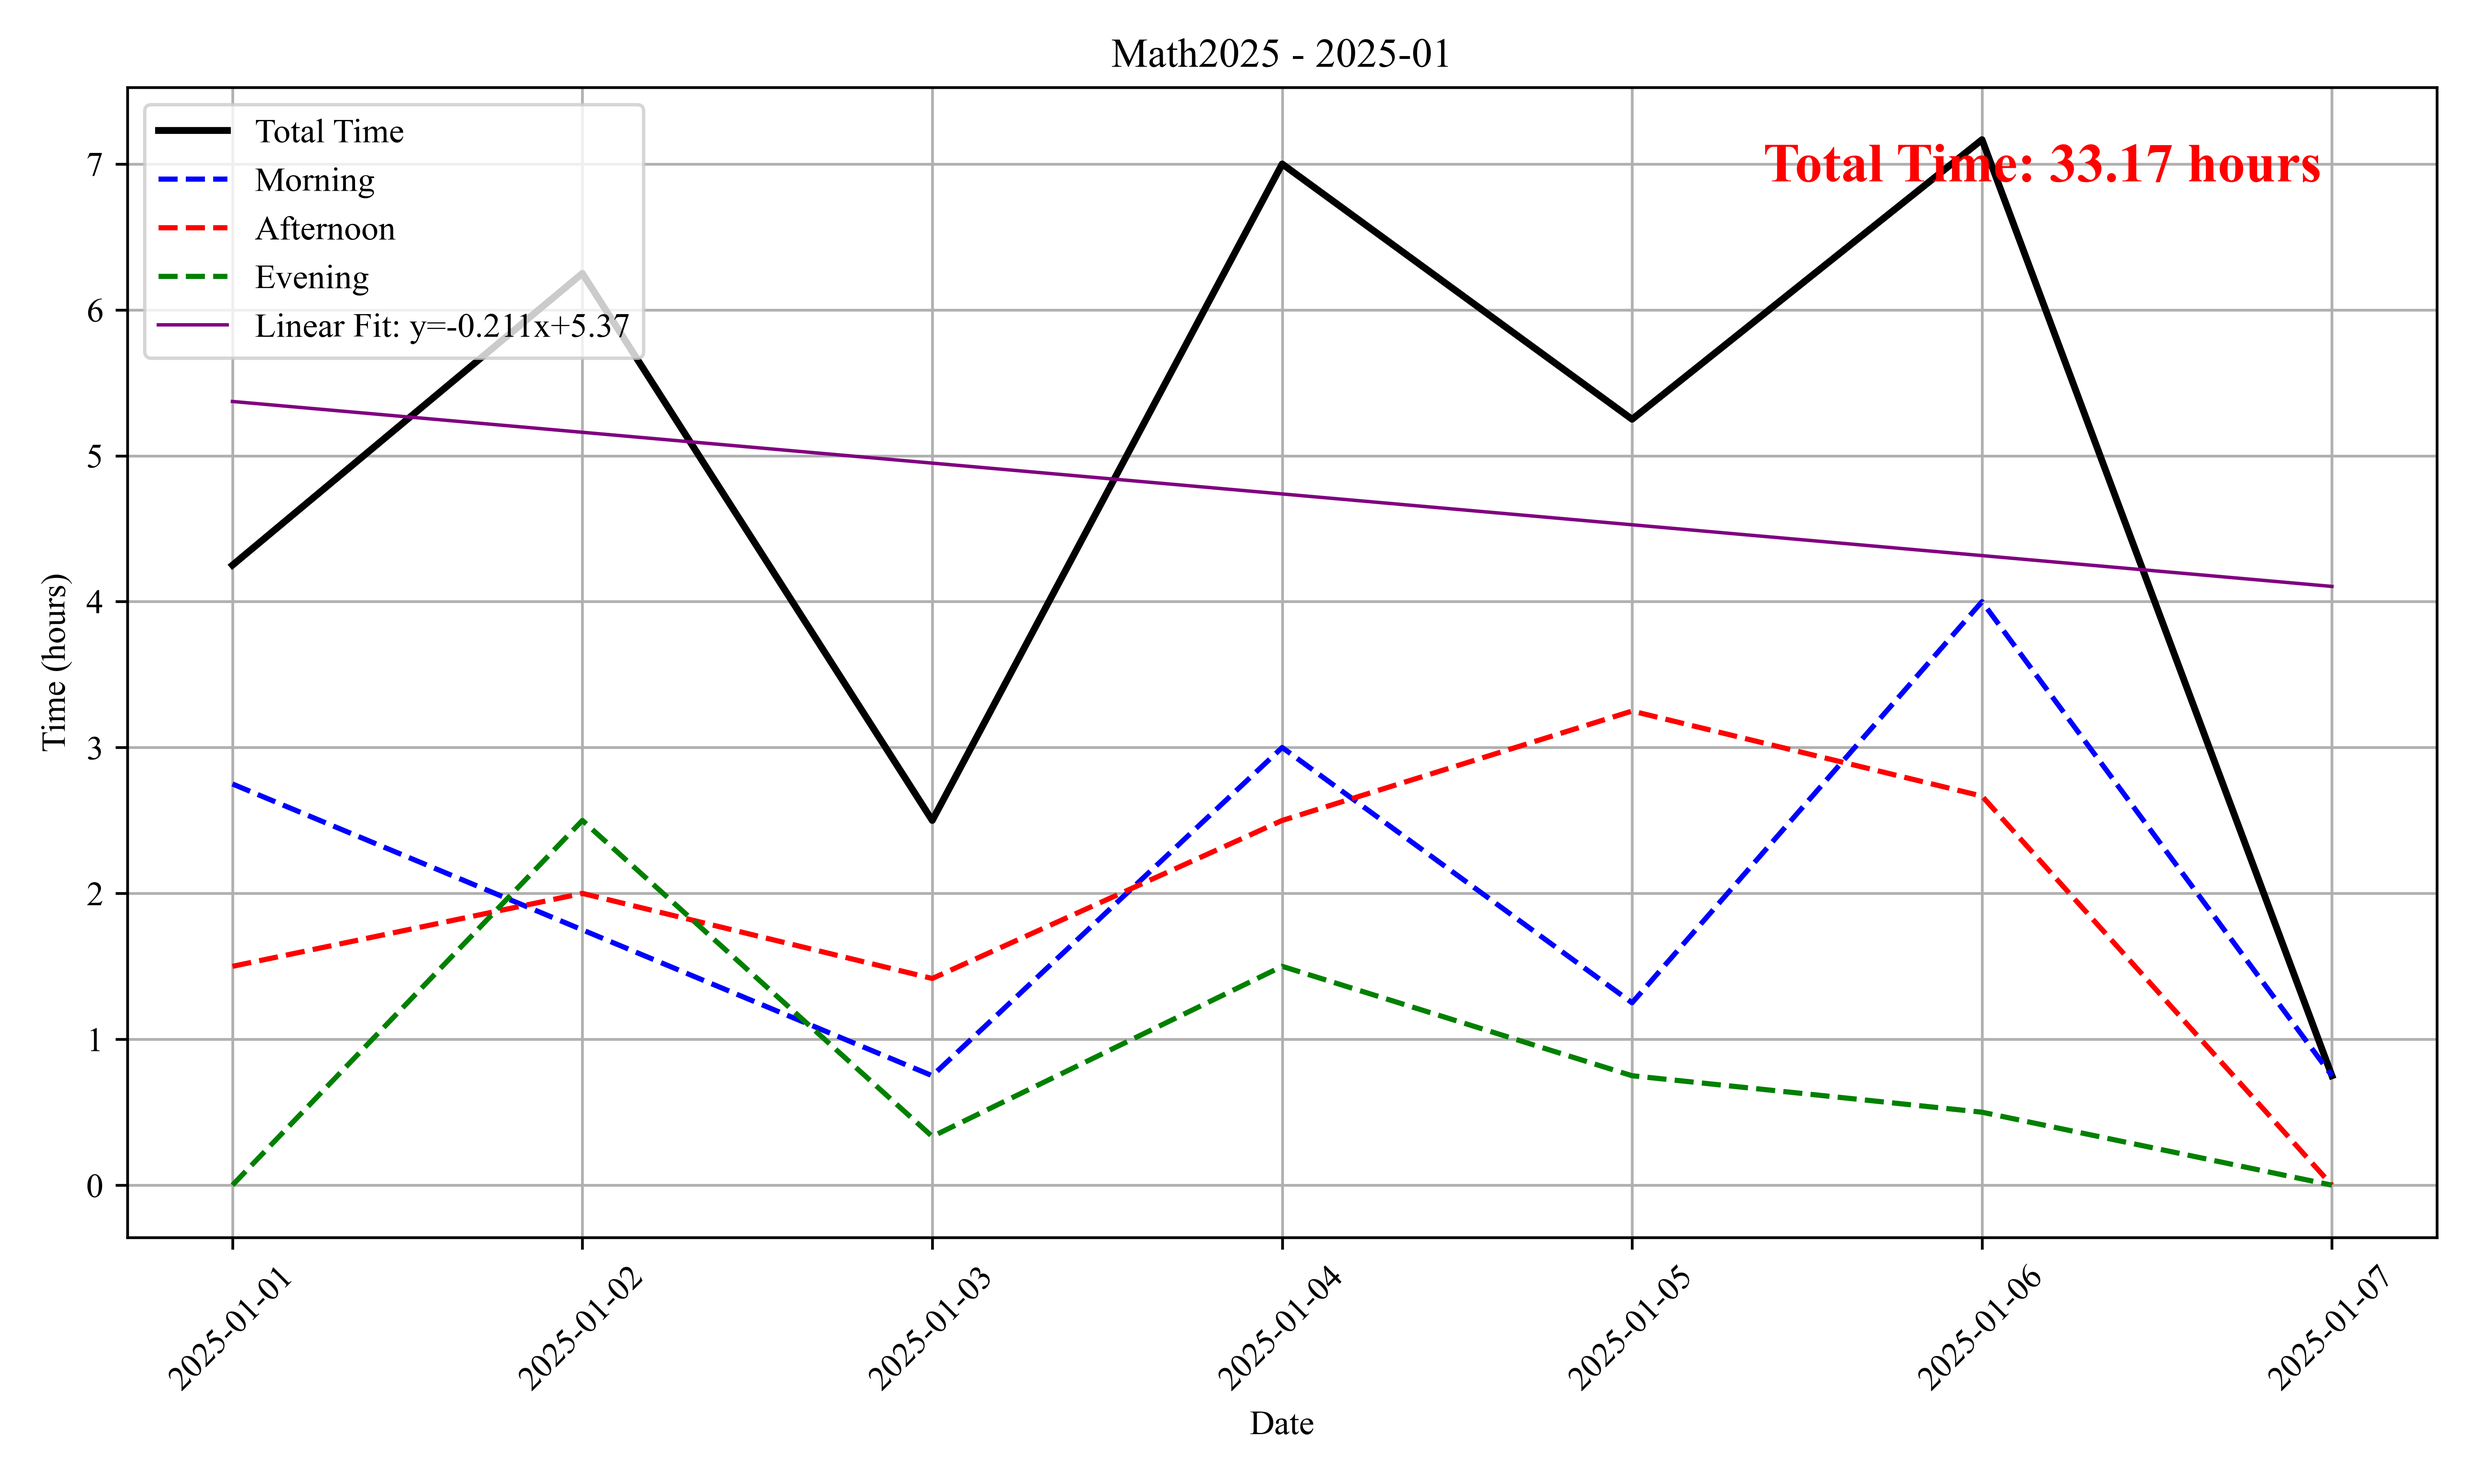
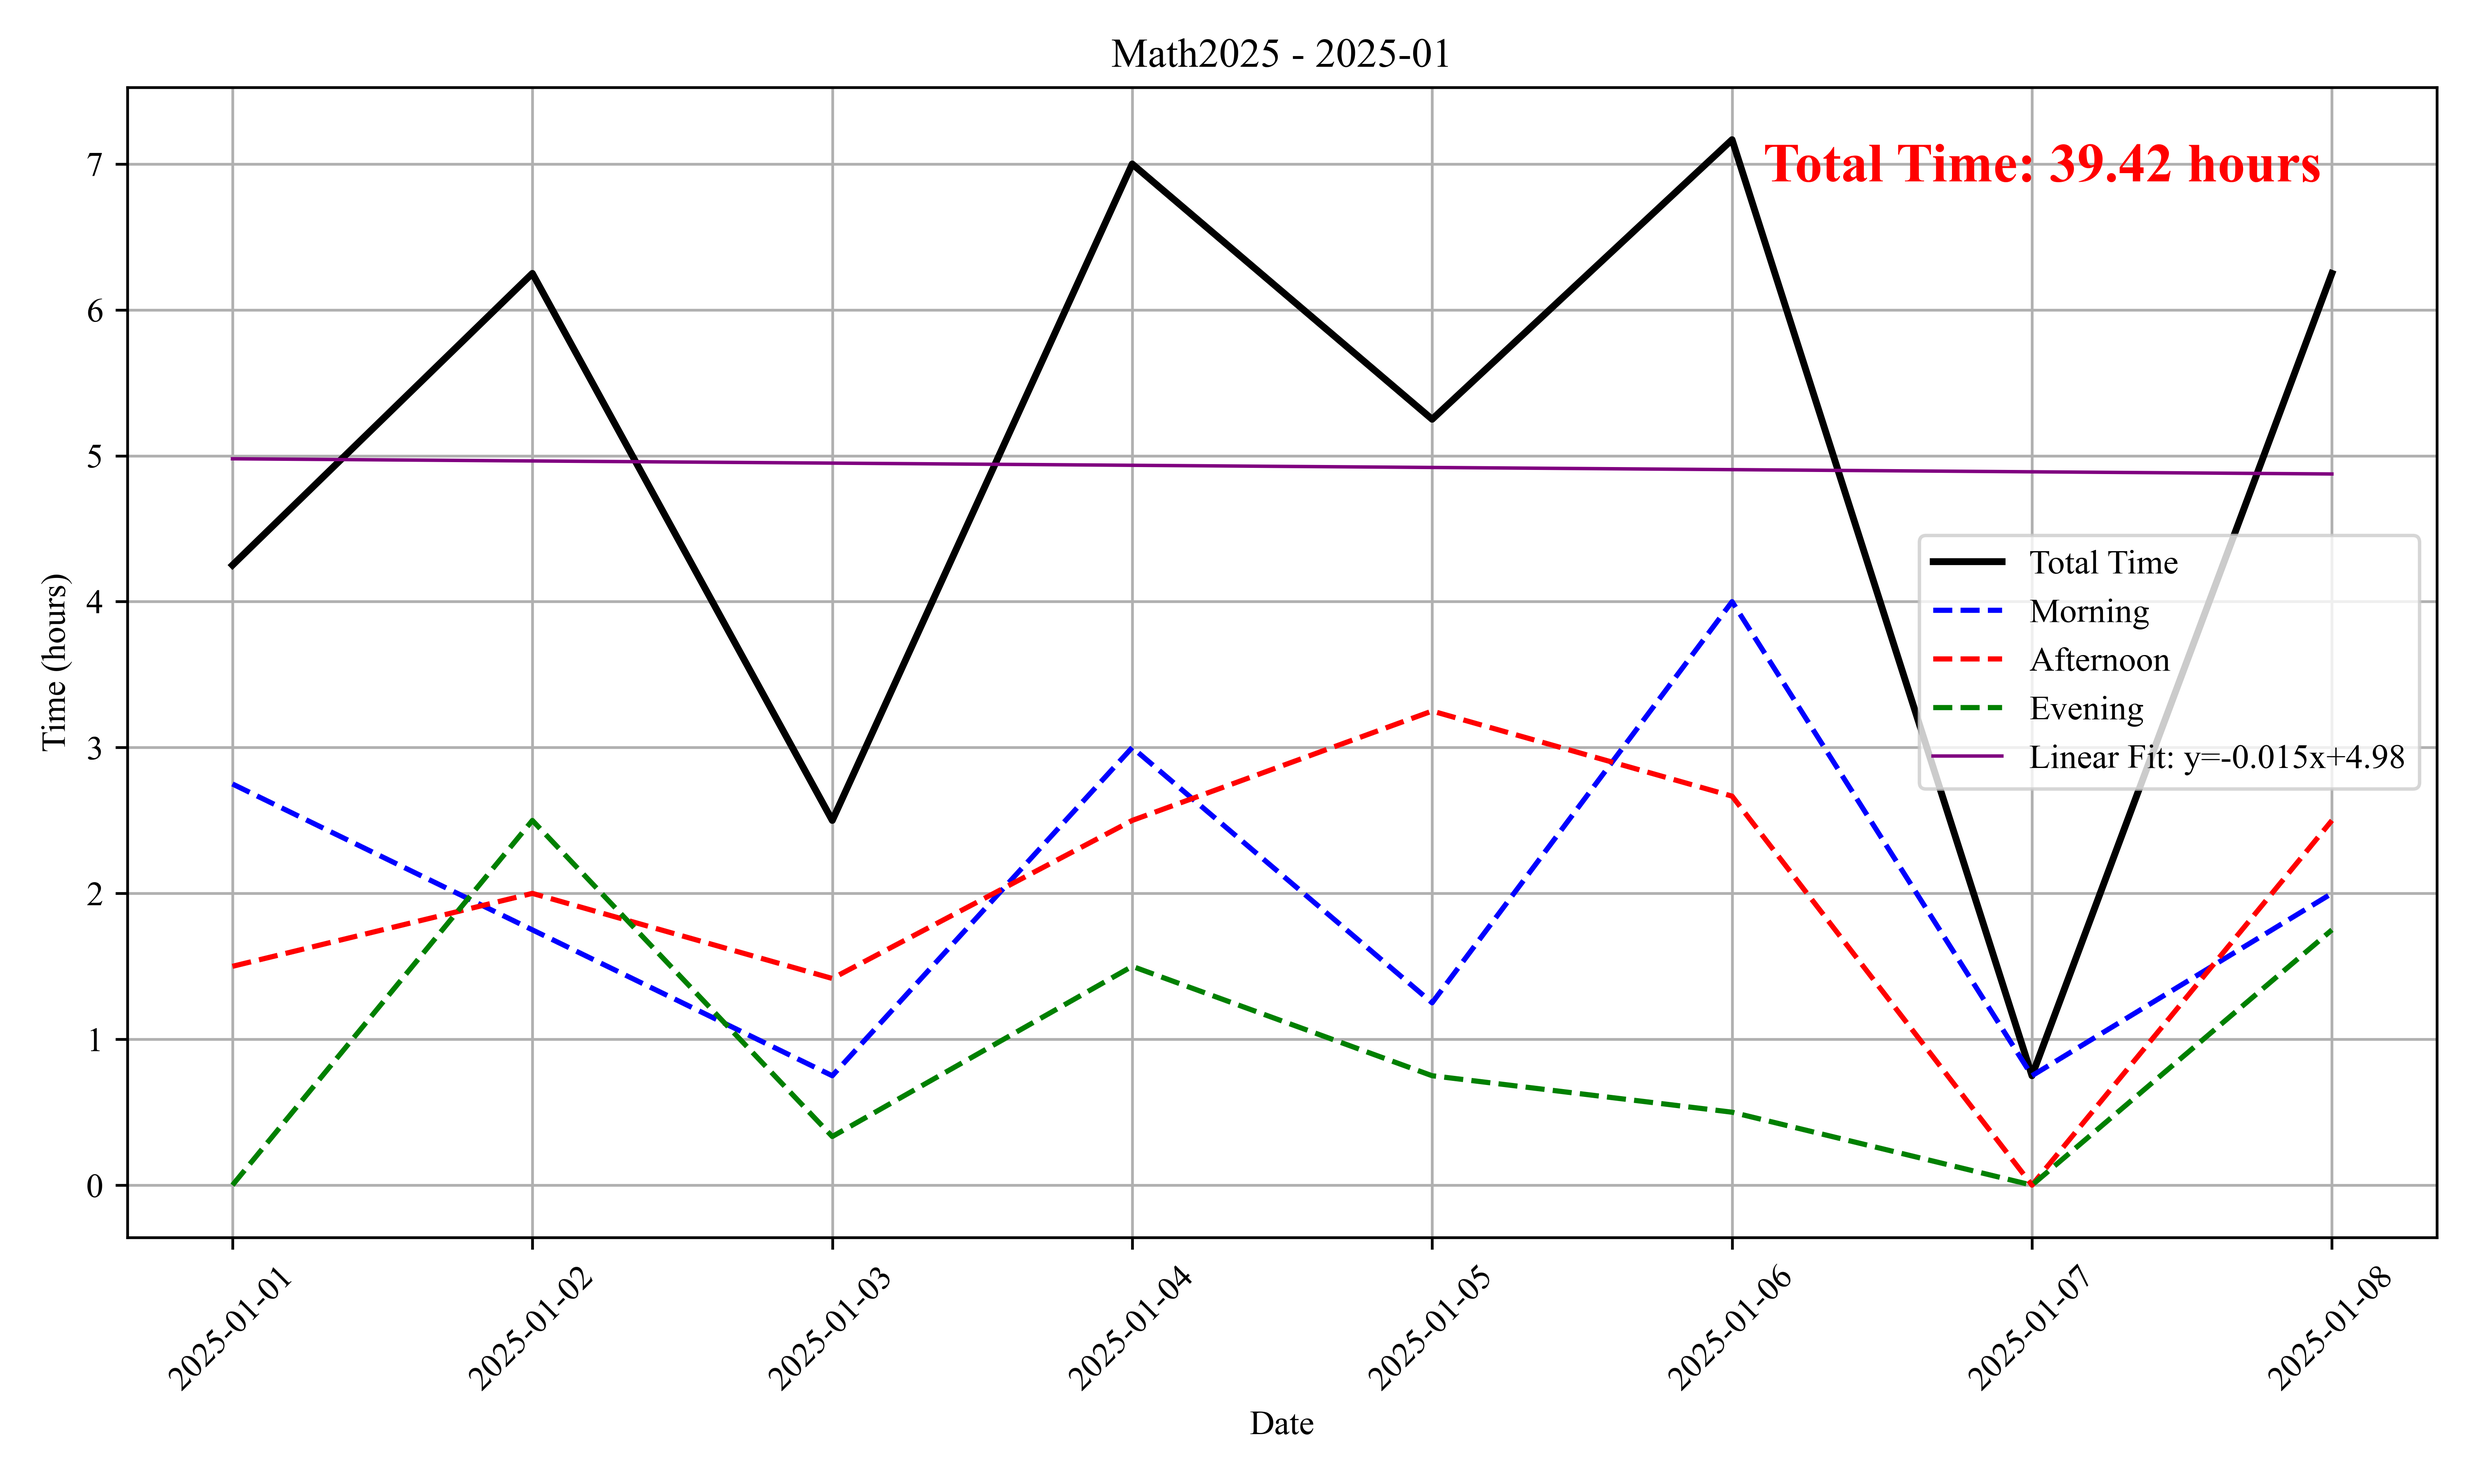
更新2025学习时长1.8，与acc

diff --git a/py/P_study_time.py b/py/P_study_time.py
@@ -105,7 +105,7 @@ class StudyTimeProcessor:
         # 对于备注非空的行，说明这是某本书写完了，现在对这本书的学习时长进行统计
         # # 找出所有备注非空的行的索引
         non_empty_remarks_indices = new_df[new_df['备注'] != ''].index
-        print(f"[log] 备注非空的行索引：{non_empty_remarks_indices}")
+        # print(f"[log] 备注非空的行索引：{non_empty_remarks_indices}")
         start_index = 0
         #
         # 遍历备注非空的行，统计与之相关联的学习时长

diff --git a/py/P_acc.py b/py/P_acc.py
@@ -8,7 +8,7 @@ class AccuracyProcessor:
         self.file_path = file_path  # "../data/xlsx/正确率-高数2024.xlsx"
         self.df = pd.read_excel(file_path)
         self.subject = file_path.split('-')[-1].split('.')[0].split('2')[0]  # 2是年份，如2024
-        print(f"[log] 正在处理 {self.subject} 的正确率数据...")
+        # print(f"[log] 正在处理 {self.subject} 的正确率数据...")
         self.validate_correct_rate()
 
     def validate_correct_rate(self):

diff --git a/data/正确率.md b/data/正确率.md
@@ -4,14 +4,15 @@
 
 <div class="acc-table-高数2024">
 
-| 书名 | 次数 | 时间 | 高数全书 | 极限与连续         | 一元微分 | 多元微分 | 微分方程 | 一元积分 | 多元积分 | 曲线曲面积分 | 无穷级数 | 空间解析几何       |
-| --- | --- | --- | --- |---------------| --- | --- | --- | --- | --- | --- | --- |--------------|
+| 书名 | 次数 | 时间 | 高数全书 | 极限与连续         | 一元微分 | 多元微分 | 微分方程 | 一元积分         | 多元积分 | 曲线曲面积分 | 无穷级数 | 空间解析几何       |
+| --- | --- | --- | --- |---------------| --- | --- | --- |--------------| --- | --- | --- |--------------|
 | 汤家凤讲义 | 一刷 | 9.7-9.21 | 435/579=75.1% | 70/79=88.6%   | 104/136=76.5% | 44/51=86.3% | 35/47=74.5% | 67/101=66.3% | 37/52=71.2% | 33/40=82.5% | 31/59=52.5% | 14/14=100%   |
-| 汤家凤基础 | 一刷 | 9.7-9.18 | 205/228=89.9% | 48/59=81.4%   | 42/48=87.5% | 29/29=100% | 23/24=95.8% | 51/56=91.1% | 12/12=100% | - | - | -            |
-| 复习全书基础 | 一刷 | 10.1-10.23 | 370/424=87.3%  | 113/126=89.7% | 116/123=94.3% | 30/36=83.3% | 21/22=95.5% | 27/42=64.3% | 33/40=82.5% | - | 21/25=84% | 9/10=90%     |
+| 汤家凤基础 | 一刷 | 9.7-9.18 | 205/228=89.9% | 48/59=81.4%   | 42/48=87.5% | 29/29=100% | 23/24=95.8% | 51/56=91.1%  | 12/12=100% | - | - | -            |
+| 复习全书基础 | 一刷 | 10.1-10.23 | 370/424=87.3%  | 113/126=89.7% | 116/123=94.3% | 30/36=83.3% | 21/22=95.5% | 27/42=64.3%  | 33/40=82.5% | - | 21/25=84% | 9/10=90%     |
 | 1800基础 | 一刷 | 10.3-10.24 | 572/812=70.4% | 61/81=75.3%   | 118/143=82.5% | 61/74=82.4% | 56/72=77.8% | 97/153=63.4% | 38/63=60.3% | 52/88=59.1% | 56/94=59.6% | 33/44=75%    |
 | 张宇基础 | 一刷 | 11.11-12.1 | 504/596=84.6% | 141/155=90.1% | 91/105=86.7% | 31/36=86.1% | 29/36=80.6% | 95/117=81.2% | 20/27=74.1% | 35/41=85.4% | 42/56=75% | 20/23=87.0%  |
 | 张宇强化 | 一刷 | 12.1-12.30 | 450/585=76.9% | 79/96=82.3% | 78/97=80.4% | 53/69=76.8% | 17/27=63.0% | 98/132=74.2% | 16/21=76.2% | 45/55=81.8% | 55/77=71.4% | 9/11=81.8% |
+| 武忠祥基础 | 一刷 | 1.5-1.8 | 300/316=94.9% | 65/66=98.5% | 41/46=89.1% | 26/27=96.3% | 26/27=96.3% | 63/68=92.6%  | 12/12=100% | 25/27=92.6% | 26/27=96.3% | 16/16=100% |
 
 </div>
 

diff --git a/data/规划.md b/data/规划.md
@@ -47,11 +47,19 @@
 
 ---
 
-寒假规划：
-- 数学：张宇36讲+880一起写，复习全书提高篇，余炳森1000。
+寒假1.14-2.12规划：
+- 数学：张宇36讲+880一起写，高数基础篇，复习全书提高篇，余炳森1000，武忠祥高数。
+  - 1.18前完成复习全书+880高数
+  - 1.22前完成复习全书+880线代
+  - 1.26前完成复习全书+880概率论
+  - 2.1前完成余炳森1000基础篇
+  - 2.5前完成余炳森1000提高篇
+  - 2.12前完成武忠祥高数。
 - 英语：背单词正常进行，阅读新东方基础100篇每日2篇。
-- 408：顺序：计网->数据结构->操作系统->计组。完成王道计网和数据结构。
+- 408：顺序：计网->数据结构->操作系统->计组。完成王道计网和数据结构(尽量)。
 - 非考研：开始看花书，尽可能多的去理解、做笔记、反思、总结。
+
+完成情况：
 √ 12.30完成高数
 √ 1.3 完成线代
 √ 1.4 完成概率论（感觉没有特别多收获，可能是状态不好）
@@ -59,8 +67,8 @@
 ---
 
 开学-3月：
-- 数学：完成基本的笔记整理。杨超三大计算高数+线代。李艳芳900。汤家凤复习全书。开始每周周测（模拟卷）。
-- 408: 王道操作系统，计组
+- 数学：完成基本的笔记整理。杨超三大计算高数+线代。李艳芳900。汤家凤复习全书。开始每周周测（模拟卷），初步时间定为周六上午。
+- 408: 王道数据结构，操作系统，计组
 - 英语：背单词，来川、华研基础。
 - 非考研：重看鸢尾花第4~7本，修订笔记。尽量重学机器学习，参考[白板笔记](https://www.yuque.com/bystander-wg876/yc5f72)
 

diff --git a/data/学习时长.md b/data/学习时长.md
@@ -131,6 +131,34 @@
 | 1.5 | 9:45-11:00, 14:00-17:15, 17:45-18:30 | |
 | 1.6 | 7:40-11:40, 14:20-17:00, 17:30-18:00 | |
 | 1.7 | 10:45-11:30 | |
-
+| 1.8 | 8:35-10:35, 14:15-16:45 | 高数武忠祥基础篇 |
+| 1.8 | 17:30-19:15 | |
 
 </div>
+
+
+
+
+
+# 2. 408
+
+
+
+
+
+
+
+
+# 3. 英语
+
+
+
+
+
+
+
+
+
+# 4. 政治
+
+
